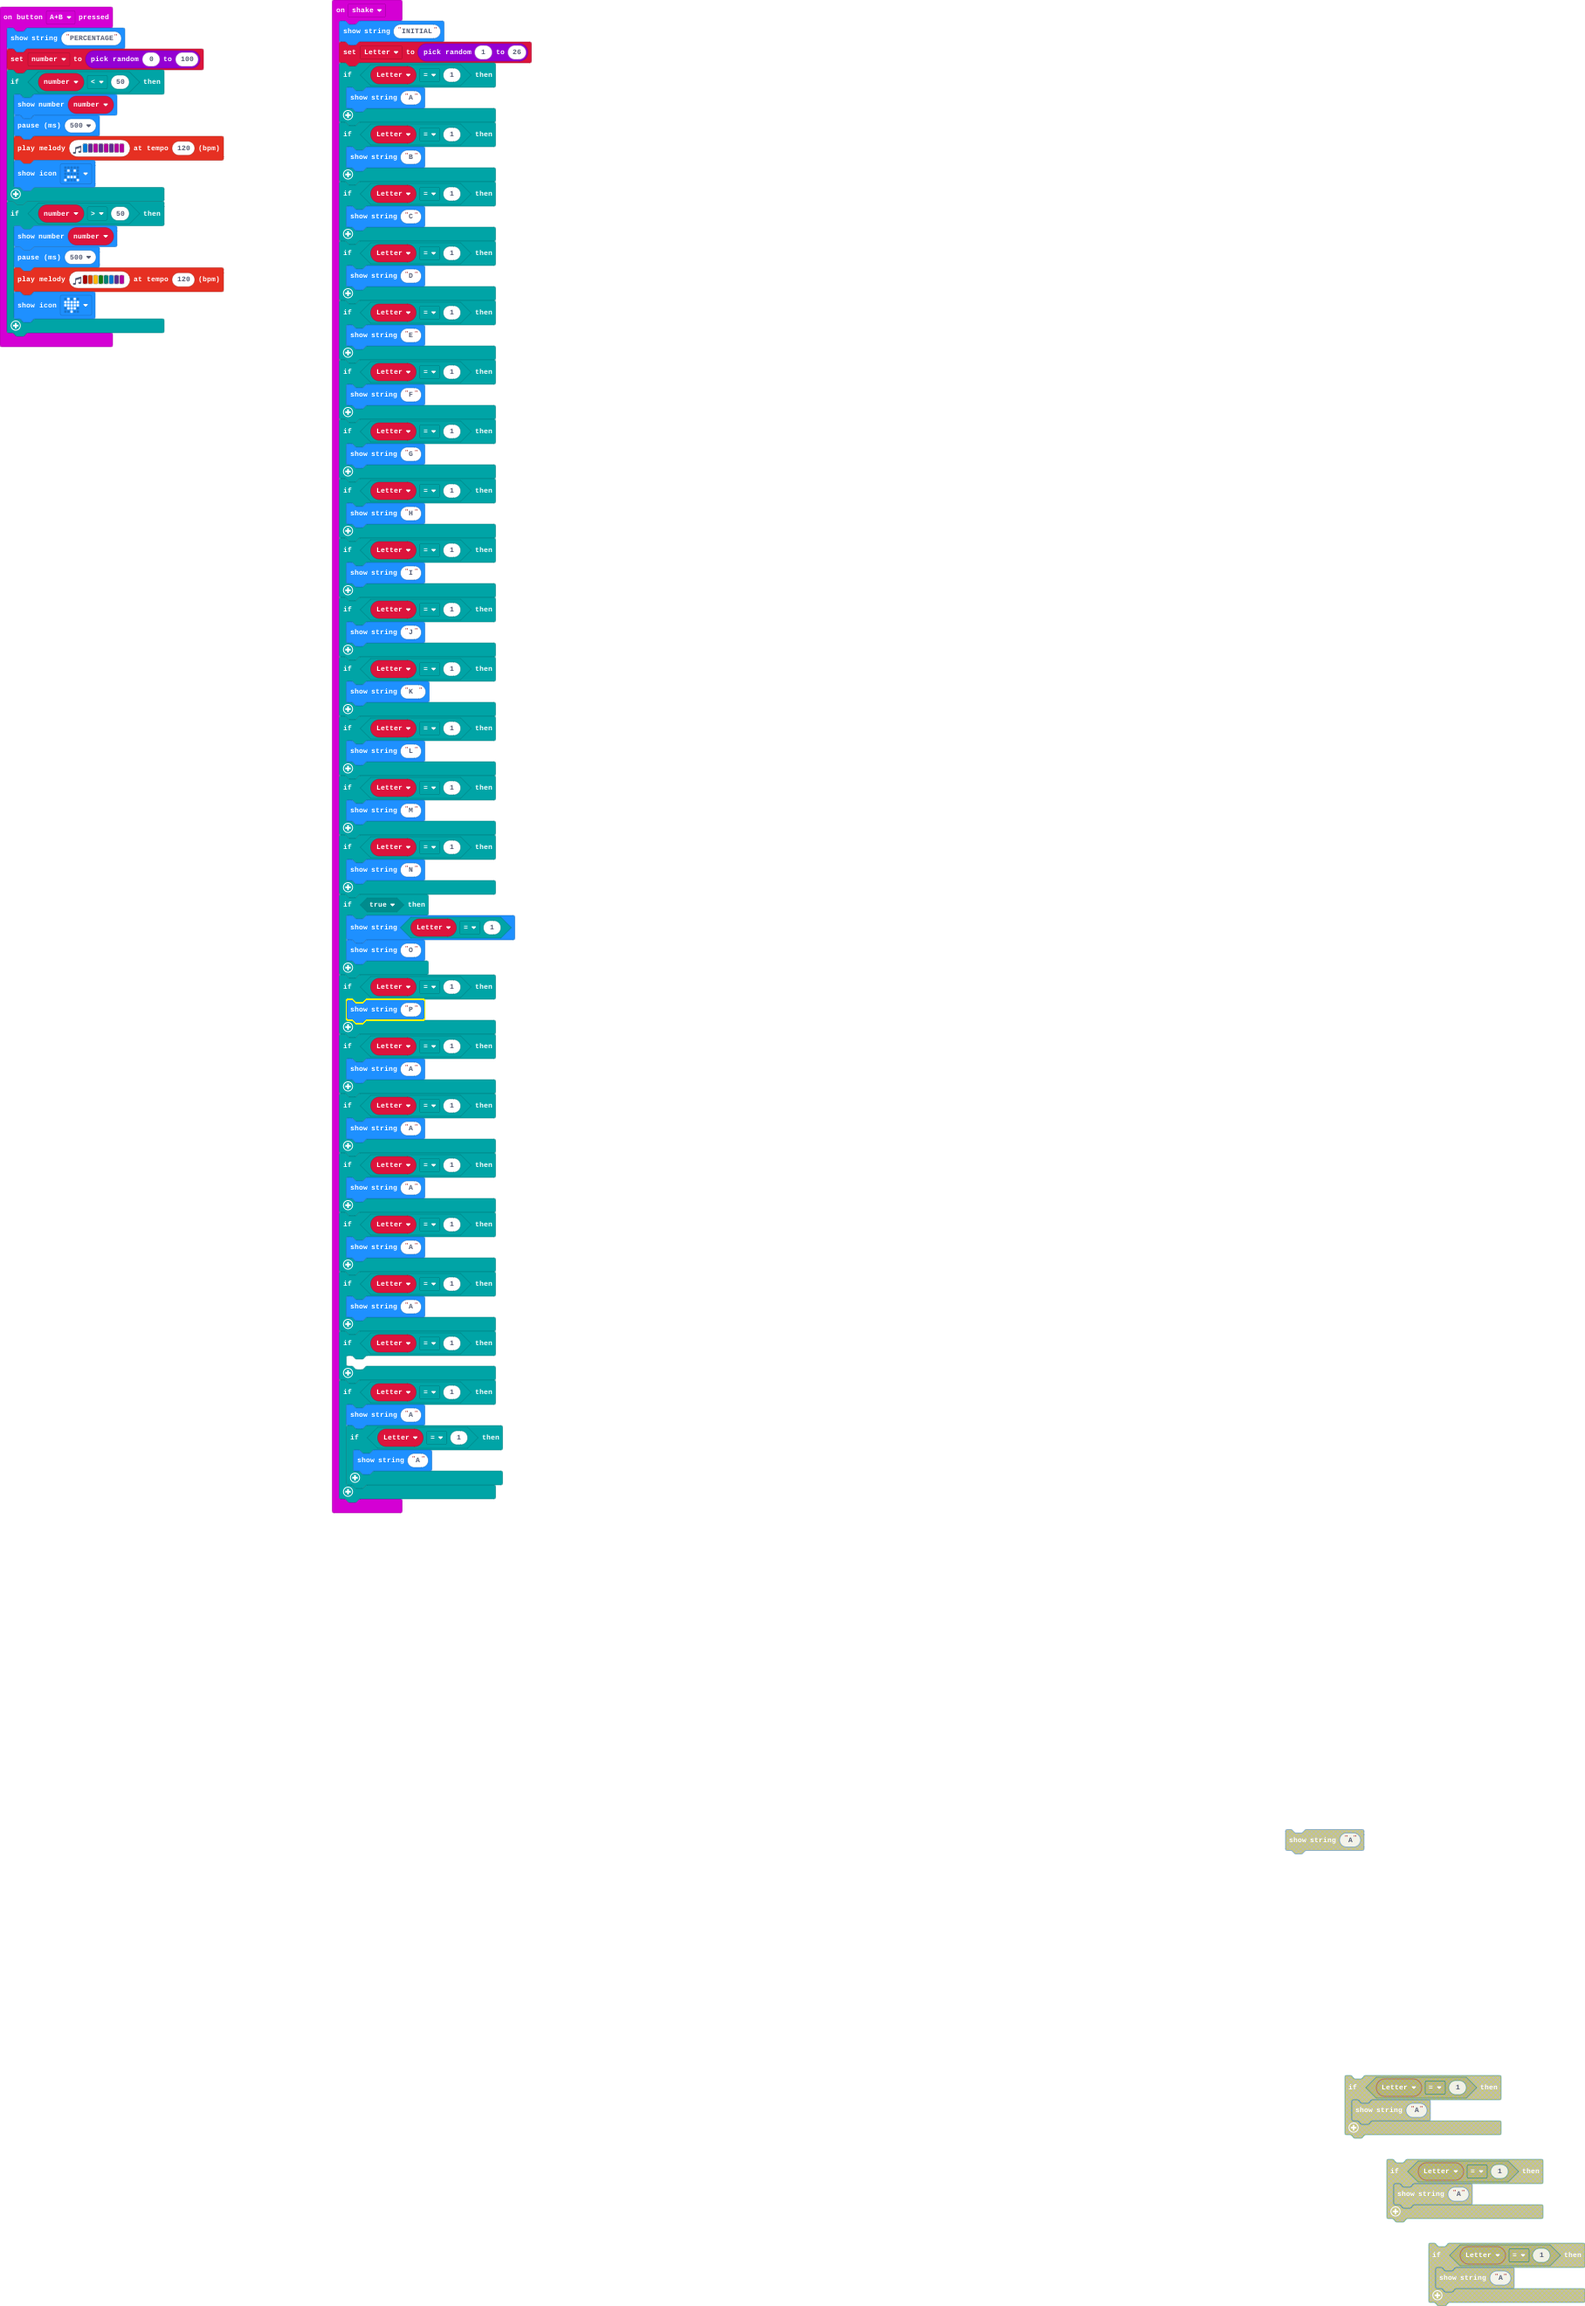
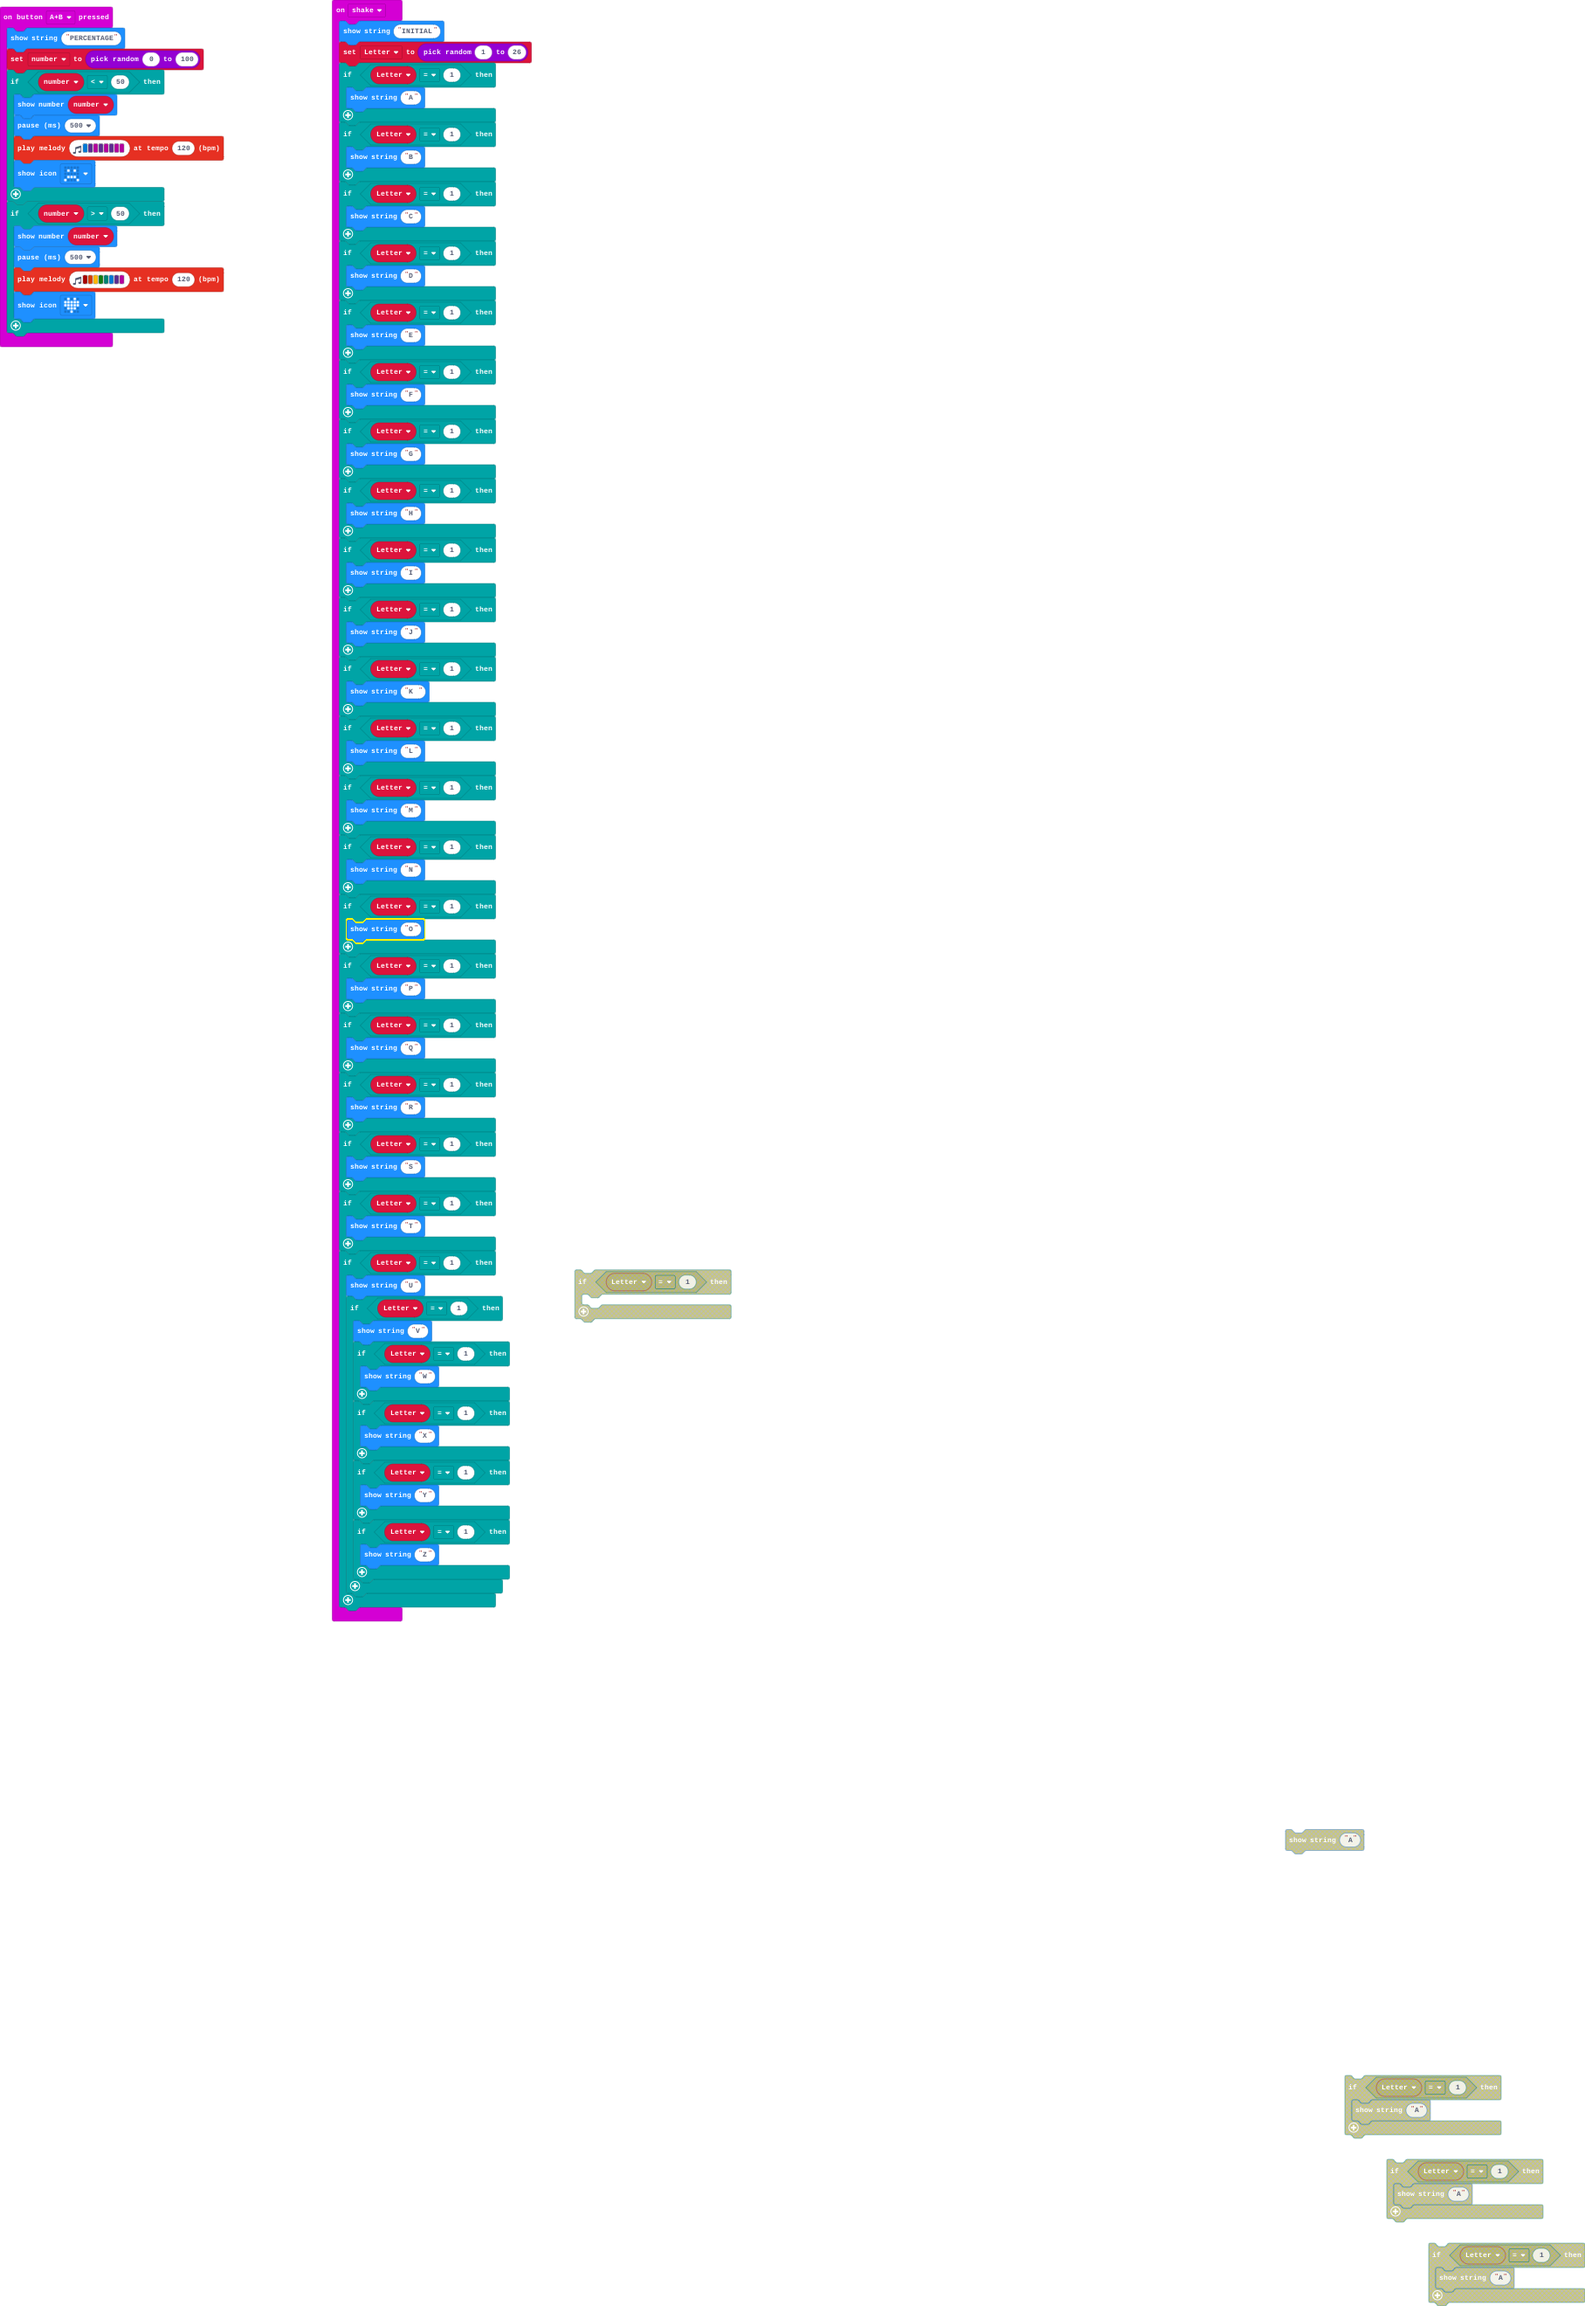
Update main.blocks, main.ts

Changed region(s): [[0.1851, 0.3727, 0.4628, 0.7144]]

diff --git a/main.ts b/main.ts
@@ -61,35 +61,40 @@ input.onGesture(Gesture.Shake, function () {
     if (Letter == 1) {
         basic.showString("N")
     }
-    if (true) {
-        basic.showString("" + (Letter == 1))
+    if (Letter == 1) {
         basic.showString("O")
     }
     if (Letter == 1) {
         basic.showString("P")
     }
     if (Letter == 1) {
-        basic.showString("A")
+        basic.showString("Q")
     }
     if (Letter == 1) {
-        basic.showString("A")
+        basic.showString("R")
     }
     if (Letter == 1) {
-        basic.showString("A")
+        basic.showString("S")
     }
     if (Letter == 1) {
-        basic.showString("A")
+        basic.showString("T")
     }
     if (Letter == 1) {
-        basic.showString("A")
-    }
-    if (Letter == 1) {
-    	
-    }
-    if (Letter == 1) {
-        basic.showString("A")
+        basic.showString("U")
         if (Letter == 1) {
-            basic.showString("A")
+            basic.showString("V")
+            if (Letter == 1) {
+                basic.showString("W")
+            }
+            if (Letter == 1) {
+                basic.showString("X")
+            }
+            if (Letter == 1) {
+                basic.showString("Y")
+            }
+            if (Letter == 1) {
+                basic.showString("Z")
+            }
         }
     }
 })
